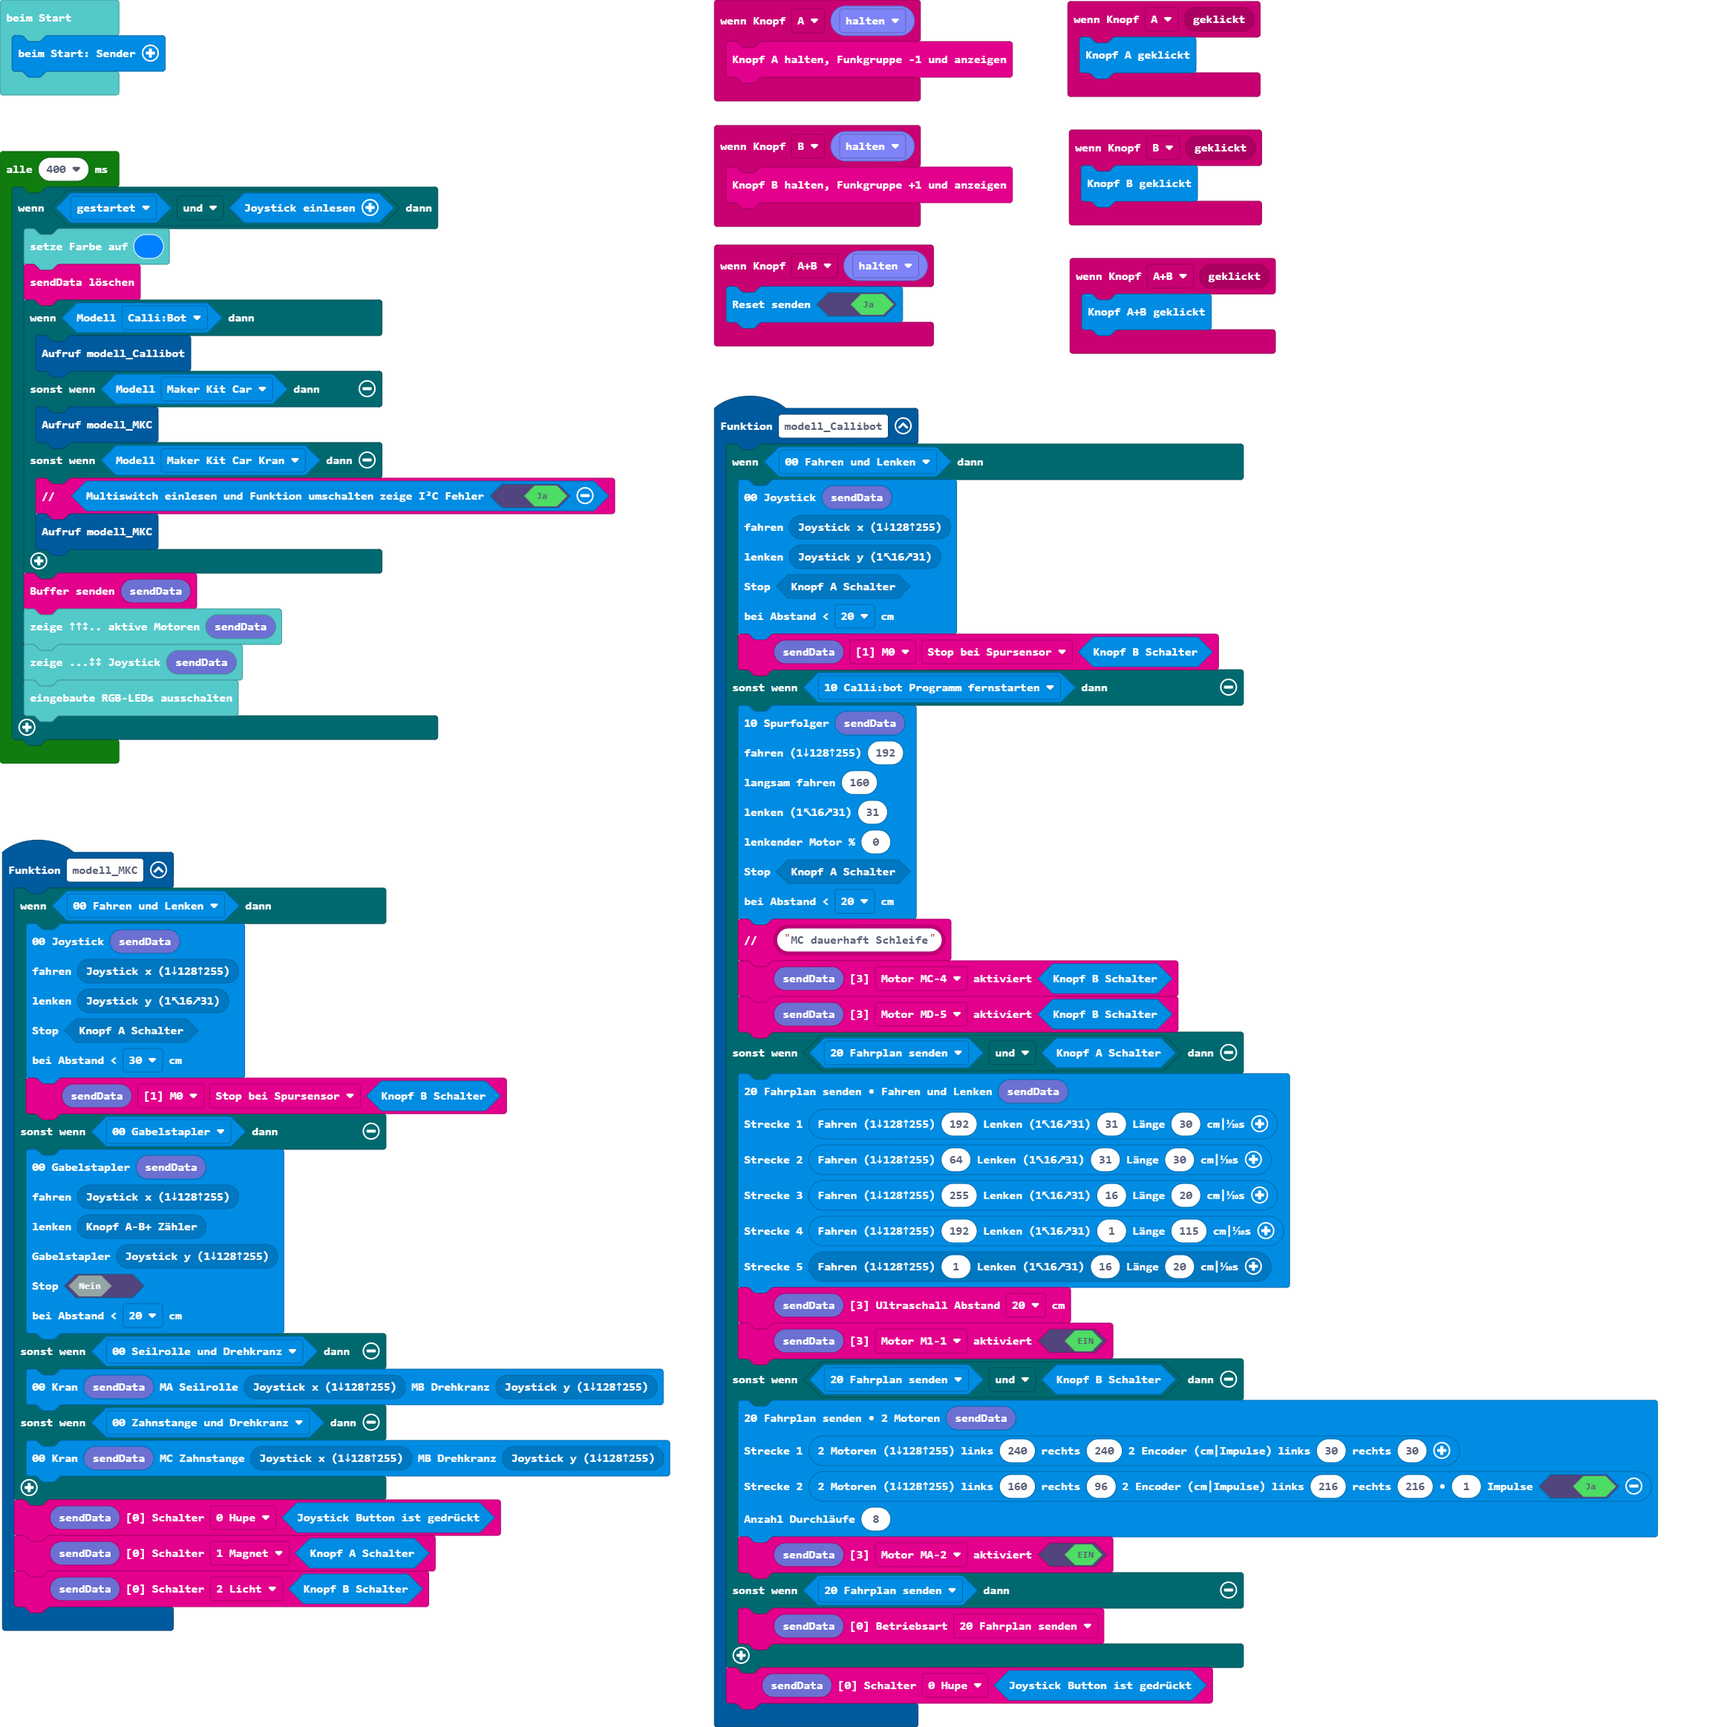
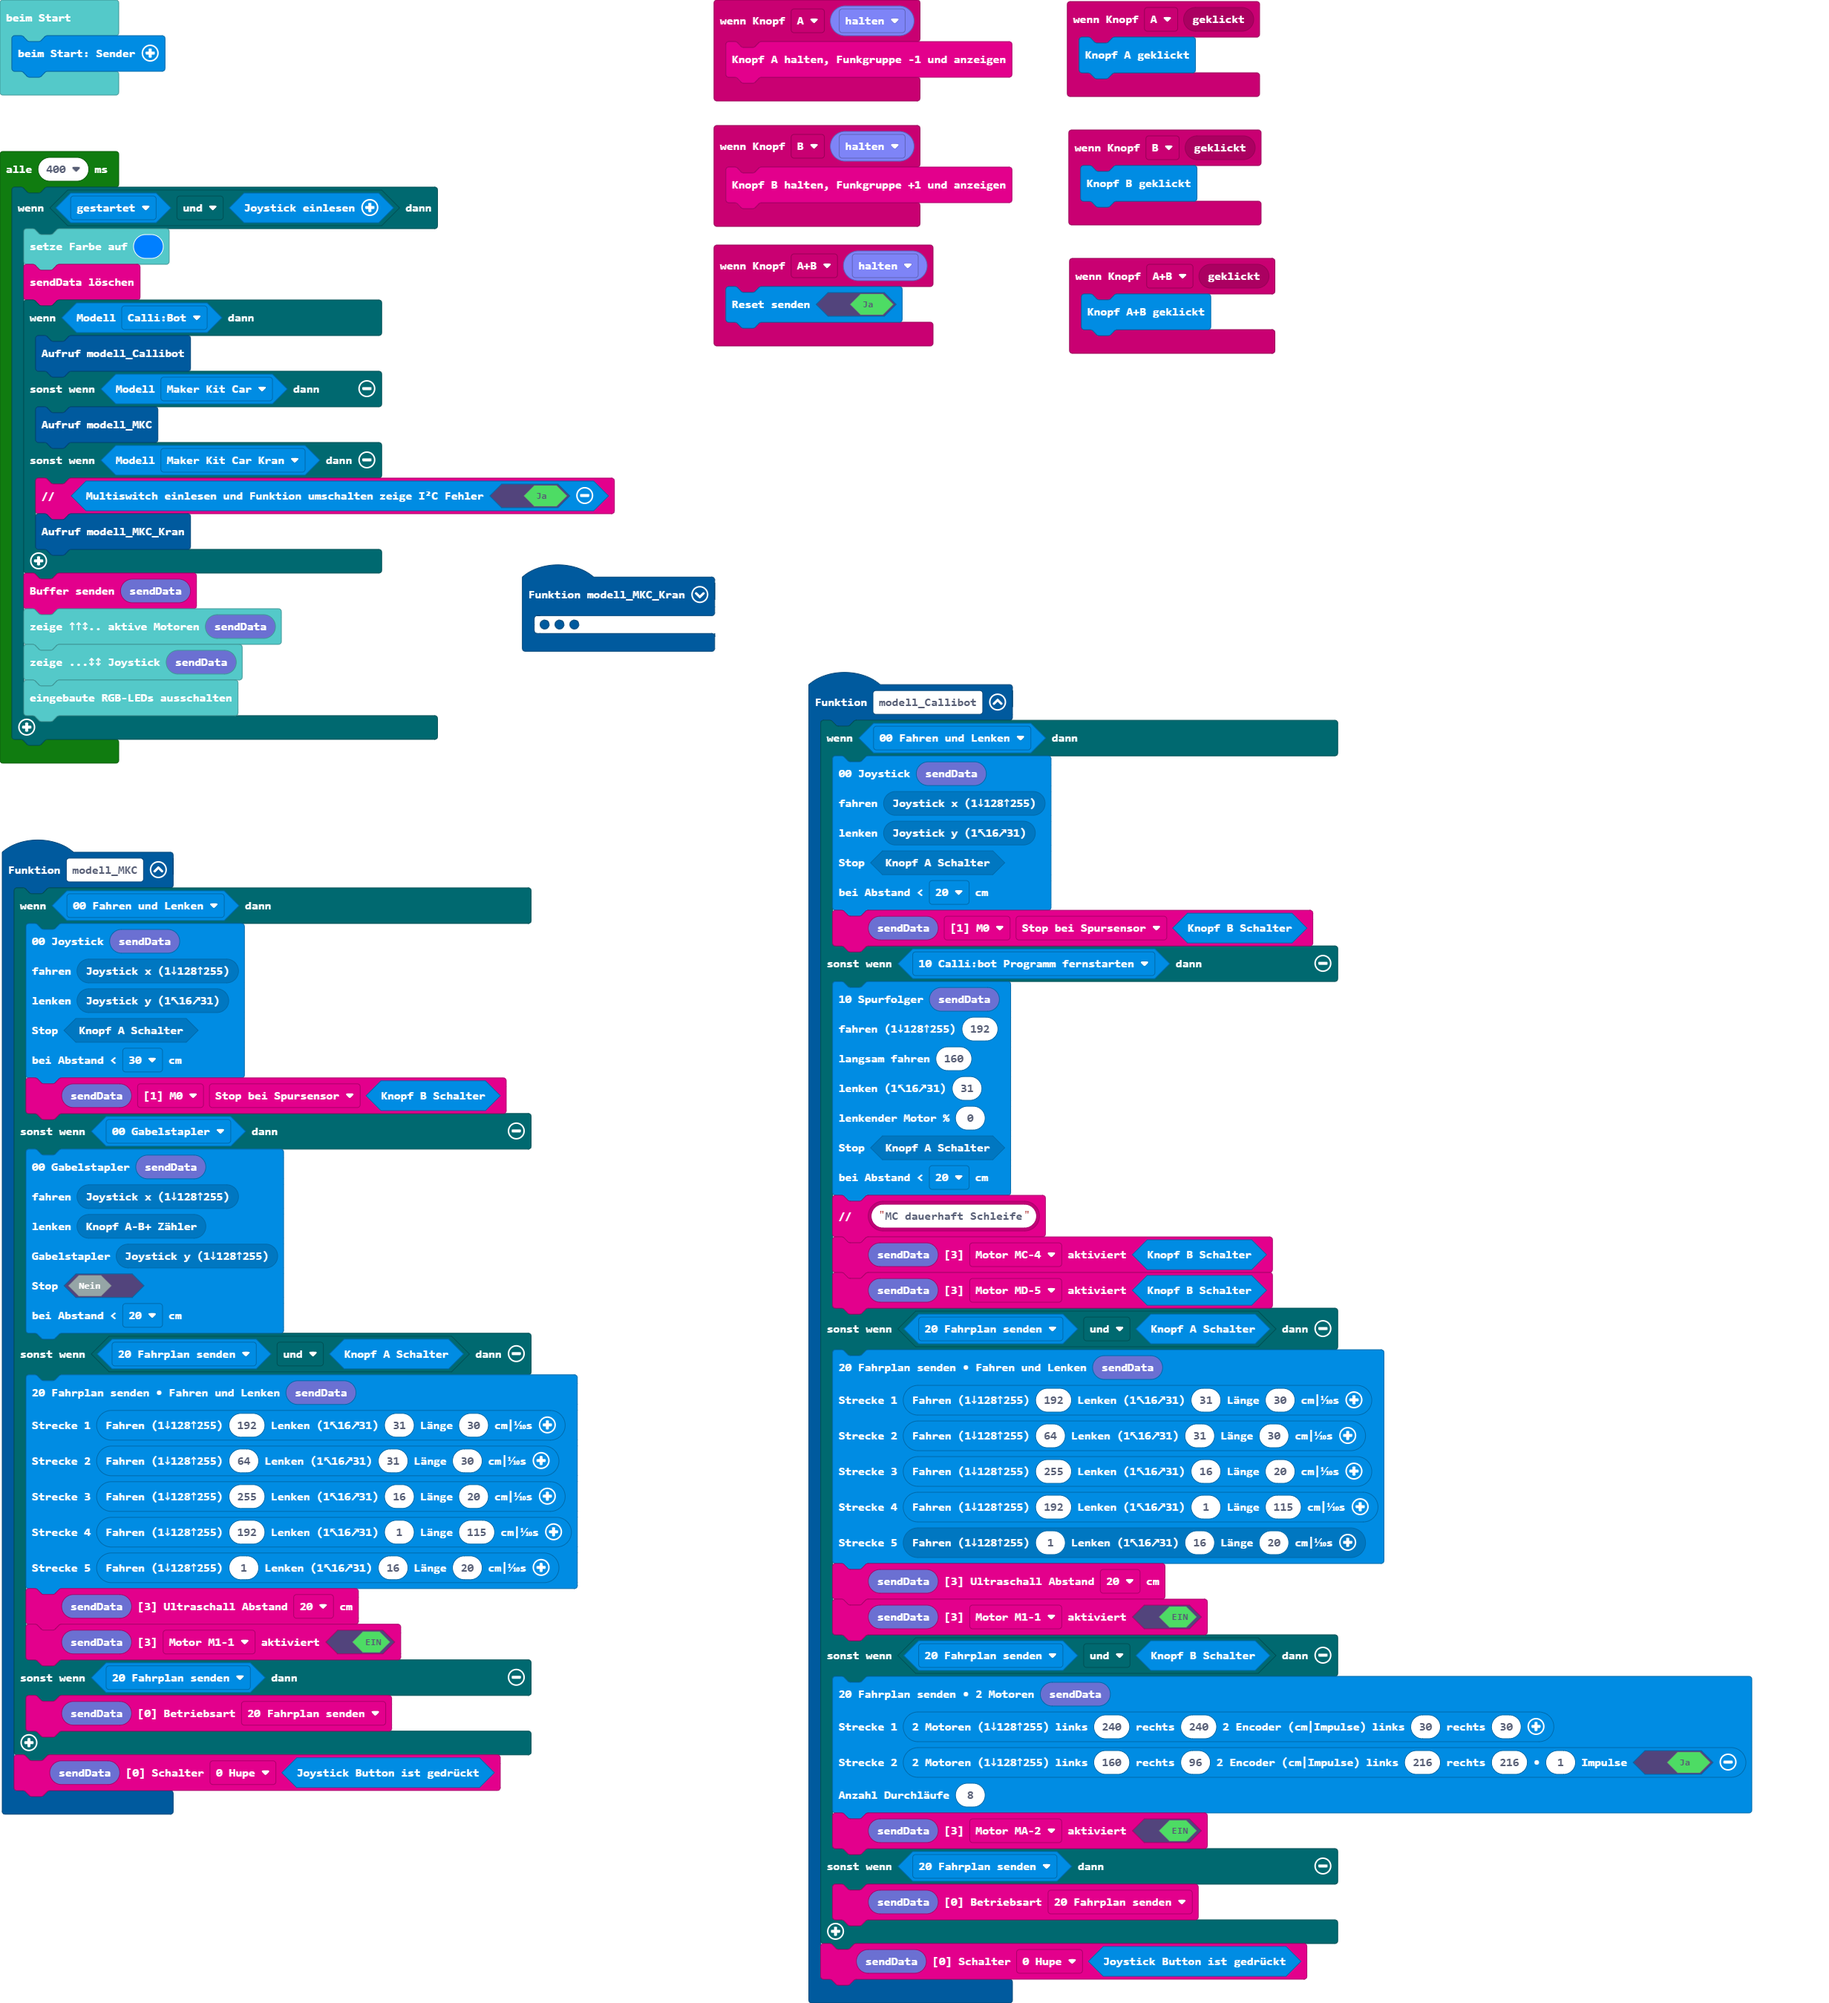
Aktualisiere pxt.json, main.blocks, main.ts

diff --git a/main.ts b/main.ts
@@ -48,6 +48,23 @@ function modell_Callibot () {
 input.onButtonEvent(Button.AB, btf.buttonEventValue(ButtonEvent.Hold), function () {
     sender.setSendReset(true)
 })
+function modell_MKC_Kran () {
+    if (sender.isFunktion(sender.eFunktion.m0_s0)) {
+        sender.send00M0Joystick(
+        btf.btf_sendBuffer19(),
+        sender.sender_xmotor(),
+        sender.sender_servo16(),
+        false,
+        btf.e3Abstand.u3
+        )
+    } else if (sender.isFunktion(sender.eFunktion.ma_mb)) {
+        sender.send00MABKran(btf.btf_sendBuffer19(), sender.sender_xmotor(), sender.sender_ymotor())
+    } else if (sender.isFunktion(sender.eFunktion.mc_mb)) {
+        sender.send00MCBKran(btf.btf_sendBuffer19(), sender.sender_xmotor(), sender.sender_ymotor())
+    }
+    btf.setSchalter(btf.btf_sendBuffer19(), btf.e0Schalter.b0, sender.joystickButtonPosition())
+    btf.setSchalter(btf.btf_sendBuffer19(), btf.e0Schalter.b1, sender.sender_ButtonA_Switch())
+}
 input.onButtonEvent(Button.A, input.buttonEventClick(), function () {
     sender.buttonA()
 })
@@ -79,14 +96,21 @@ function modell_MKC () {
         false,
         btf.e3Abstand.u2
         )
-    } else if (sender.isFunktion(sender.eFunktion.ma_mb)) {
-        sender.send00MABKran(btf.btf_sendBuffer19(), sender.sender_xmotor(), sender.sender_ymotor())
-    } else if (sender.isFunktion(sender.eFunktion.mc_mb)) {
-        sender.send00MCBKran(btf.btf_sendBuffer19(), sender.sender_xmotor(), sender.sender_ymotor())
+    } else if (sender.isFunktion(sender.eFunktion.m1abcd_fahrplan) && sender.sender_ButtonA_Switch()) {
+        sender.send20Strecken(
+        btf.btf_sendBuffer19(),
+        sender.sender_Strecke(192, 31, 30),
+        sender.sender_Strecke(64, 31, 30),
+        sender.sender_Strecke(255, 16, 20),
+        sender.sender_Strecke(192, 1, 115),
+        sender.sender_Strecke(1, 16, 20)
+        )
+        btf.setAbstand(btf.btf_sendBuffer19(), btf.e3Abstand.u2)
+        btf.setaktiviert(btf.btf_sendBuffer19(), btf.e3aktiviert.m1, true)
+    } else if (sender.isFunktion(sender.eFunktion.m1abcd_fahrplan)) {
+        btf.setBetriebsart(btf.btf_sendBuffer19(), btf.e0Betriebsart.p2Fahrplan)
     }
     btf.setSchalter(btf.btf_sendBuffer19(), btf.e0Schalter.b0, sender.joystickButtonPosition())
-    btf.setSchalter(btf.btf_sendBuffer19(), btf.e0Schalter.b1, sender.sender_ButtonA_Switch())
-    btf.setSchalter(btf.btf_sendBuffer19(), btf.e0Schalter.b2, sender.sender_ButtonB_Switch())
 }
 input.onButtonEvent(Button.A, btf.buttonEventValue(ButtonEvent.Hold), function () {
     btf.buttonAhold()
@@ -102,7 +126,7 @@ loops.everyInterval(400, function () {
             modell_MKC()
         } else if (sender.isModell(sender.eModell.mkck)) {
             btf.comment(sender.multiswitchGrove(true))
-            modell_MKC()
+            modell_MKC_Kran()
         }
         btf.sendData(btf.btf_sendBuffer19())
         btf.zeige5x5Buffer(btf.btf_sendBuffer19())
